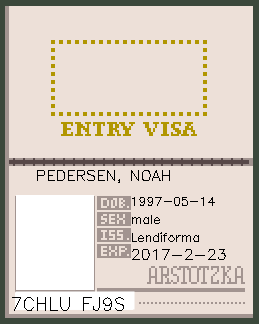
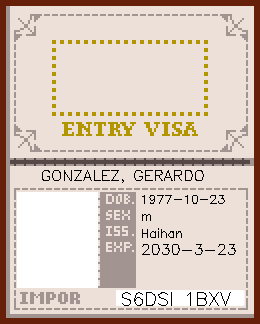
added customizability for passport function

diff --git a/app.py b/app.py
@@ -3,7 +3,7 @@ from pygame.locals import *
 import random
 from termcolor import colored
 from time import sleep
-from helpers import passport_img
+from helpers import passport_img, convert_degrees_to_pygame
 
 # pygame.init()
 
@@ -14,28 +14,34 @@ pygame.mixer.init()
 people_count = 0
 
 alphas = "abcdefghijklm"
-characters = []
+characters = {"m": [], "f": [], "s": []}
+special_characters = []
 for i in range(len("abcdefghijklm")):
-    characters.append(pygame.image.load(f"images/characters/{alphas[i]}.png"))
-characters.append(pygame.image.load(f"images/characters/elisa.png"))
-characters.append(pygame.image.load(f"images/characters/ezic.png"))
-characters.append(pygame.image.load(f"images/characters/jorji.png"))
+    if "abcdefghijklm"[i] == "a":
+        characters["f"].append(pygame.transform.scale(pygame.image.load(f"images/characters/{alphas[i]}.png"), (75, 90)))
+    else:
+        characters["m"].append(pygame.transform.scale(pygame.image.load(f"images/characters/{alphas[i]}.png"), (75, 90)))
+characters["s"].append(pygame.image.load(f"images/characters/elisa.png"))
+characters["s"].append(pygame.image.load(f"images/characters/ezic.png"))
+characters["s"].append(pygame.image.load(f"images/characters/jorji.png"))
 
-print(characters)
+# print(characters)
 
 win = pygame.display.set_mode((1000, 700))
 title = pygame.image.load("images/title.png")
 workspace = pygame.image.load("images/workspace.png")
 small_person = pygame.image.load("images/small-person.png")
 arstotaka_passport = pygame.image.load("images/passports/arstotzka.png")
-a = pygame.image.load("images/characters/a.png")
-a = pygame.transform.scale(a, (80,100))
 small_person = pygame.transform.scale(small_person, (25,60))
 pygame.display.set_caption("Papers Please Remake")
 font = pygame.font.SysFont('Tahoma', 60, True, False)
 font_a = pygame.font.Font("fonts/a.ttf", 10)
 game_map = pygame.image.load("images/map.jpeg")
 #text = font.render('Bauhaus 93 | Size: 36 | Colour: White | Background: Blue', True, (255, 255, 255), (0, 0, 255))
+w_citation = pygame.image.load("images/warning-citation.png")
+lw_citation = pygame.image.load("images/last-warning-citation.png")
+p_citation = pygame.image.load("images/penalty-citation.png")
+
 pygame.mixer.music.load("musics/song.mp3")
 pygame.mixer.music.play(-1)
 
@@ -110,6 +116,8 @@ denied_button = Button(900, 500, 50, 50, (255, 0, 0))
 
 correct = None
 char = None
+current_country = None
+a = 0
 
 while play:
     for event in pygame.event.get():
@@ -126,13 +134,16 @@ while play:
             if pass_button.is_click(pos):
                 # do once approve button is clicked
                 if correct != True:
-                    print("you failed")
+                    win.blit(w_citation, (0, 0))
                 avail = True
                 iterator = 0
             elif denied_button.is_click(pos):
                 # do once denied button is clicked
                 if correct != False:
-                    print("you failed")
+                    if a < 30:
+                        print(a)
+                        win.blit(w_citation, (0, 0))
+                        a+=1
                 avail = True
                 iterator = 0
 
@@ -151,9 +162,11 @@ while play:
     for i in range(13):
         win.blit(small_person, (0 + i*20 + int(random_num(1, 2, 1)) / 2, 140 + int(random_num(1, 2, 1)) / 2))
 
+    # pygame.draw.circle(win, (98, 76, 39), (40, 650))
     if not avail:
         if char == None:
-            char = random.choice(characters)
+            gender = random.choice("mf")
+            char = random.choice(characters[gender])
 
         if day_count == 1:
 
@@ -164,25 +177,29 @@ while play:
                         correct = False
                     else:
                         correct = True
-                    passport_img(country)
+                    current_country = country
+                    passport_img(country, sex=gender, exp=True) # True is valid, False otherwise
                     passport = pygame.image.load("output.png")
 
             if people_count == 1:
                 if iterator == 0:
                     correct = True
-                    passport_img("arstotzka")
+                    current_country = "arstotzka"
+                    passport_img(current_country, sex=gender, exp=True)
                     passport = pygame.image.load("output.png")
 
             if people_count == 2:
                 if iterator == 0:
                     correct = False
-                    passport_img("impor")
+                    current_country = "impor"
+                    passport_img(current_country, sex=gender, exp=True)
                     passport = pygame.image.load("output.png")
 
             if people_count == 3:
                 if iterator == 0:
                     correct = False
-                    passport_img("republia")
+                    current_country = "republia"
+                    passport_img(current_country, sex=gender, exp=True)
                     passport = pygame.image.load("output.png")
 
             if people_count == 5:
@@ -192,9 +209,13 @@ while play:
                     win.blit(text, (250, 250))
                     #passport_img("kolechia")
                     #passport = pygame.image.load("output.png")
+
             if people_count != 5:
                 merged = passport.copy()
-                merged.blit(char, (15, 190))
+                if current_country in ["antegria", "obristan", "republia"]:
+                    merged.blit(char, (150, 190))
+                else:
+                    merged.blit(char, (15, 190))
                 win.blit(merged, (400, 250))
                 win.blit(char, (250, 250))
                 iterator += 1

diff --git a/helpers.py b/helpers.py
@@ -5,6 +5,7 @@ import random
 import string
 from datetime import date
 import string
+import math 
 
 COUNTRIES_POS = {
     # code, dob, sex, iss, name, exp
@@ -94,14 +95,16 @@ def random_str(digits=10):
             ans += random.choice(string.ascii_uppercase + string.digits)
     return ans
 
-def passport_img(country, sex="", dob="", name="", exp=""):
+def passport_img(country, sex="", dob="", name="", exp=None):
 
     name_1, dob_1, sex_1, exp_1 = random_info()
 
     if len(name) == 0: name = name_1
     if len(dob) == 0: dob = dob_1
     if len(sex) == 0: sex = sex_1
-    if len(exp) == 0: exp = exp_1
+    if exp == None: exp = exp_1
+    elif exp == False: exp = f"{random_num(int(date.today().year)-10, int(date.today().year))}-{random_num(1, 12)}-{random_num(1, 28)}"
+    elif exp == True: exp = exp = f"{random_num(int(date.today().year), int(date.today().year)+10)}-{random_num(1, 12)}-{random_num(1, 28)}"
 
     image = cv2.imread(f'images/passports/{country}.png', cv2.IMREAD_UNCHANGED)
 
@@ -176,6 +179,12 @@ def citation_img(c_type, wrong=0):
     else:
         image = cv2.imread('images/passports/penalty-citation.png', cv2.IMREAD_UNCHANGED)
 
-if __name__ == "__main__":
+def convert_degrees_to_pygame(R, theta):
+    # https://www.youtube.com/watch?v=2W58RNW2gsY
+    x = math.cos(theta) * R
+    y = math.sin(theta) * R
+    return (x-400, 400-y)
+
+"""if __name__ == "__main__":
     data = random_info()
-    passport_img("united-federation")
+    passport_img("united-federation")"""
